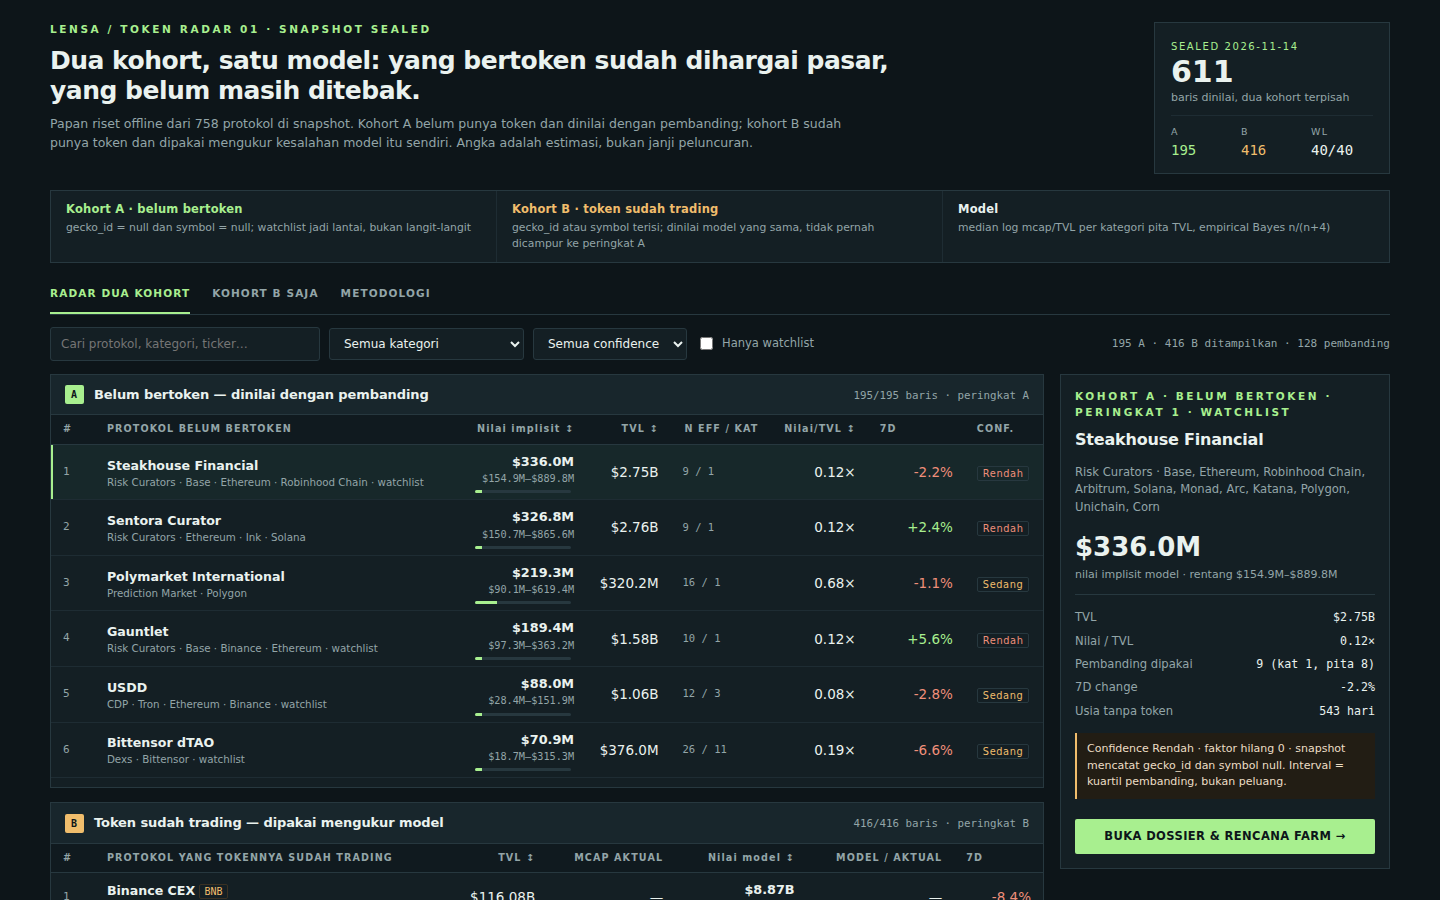
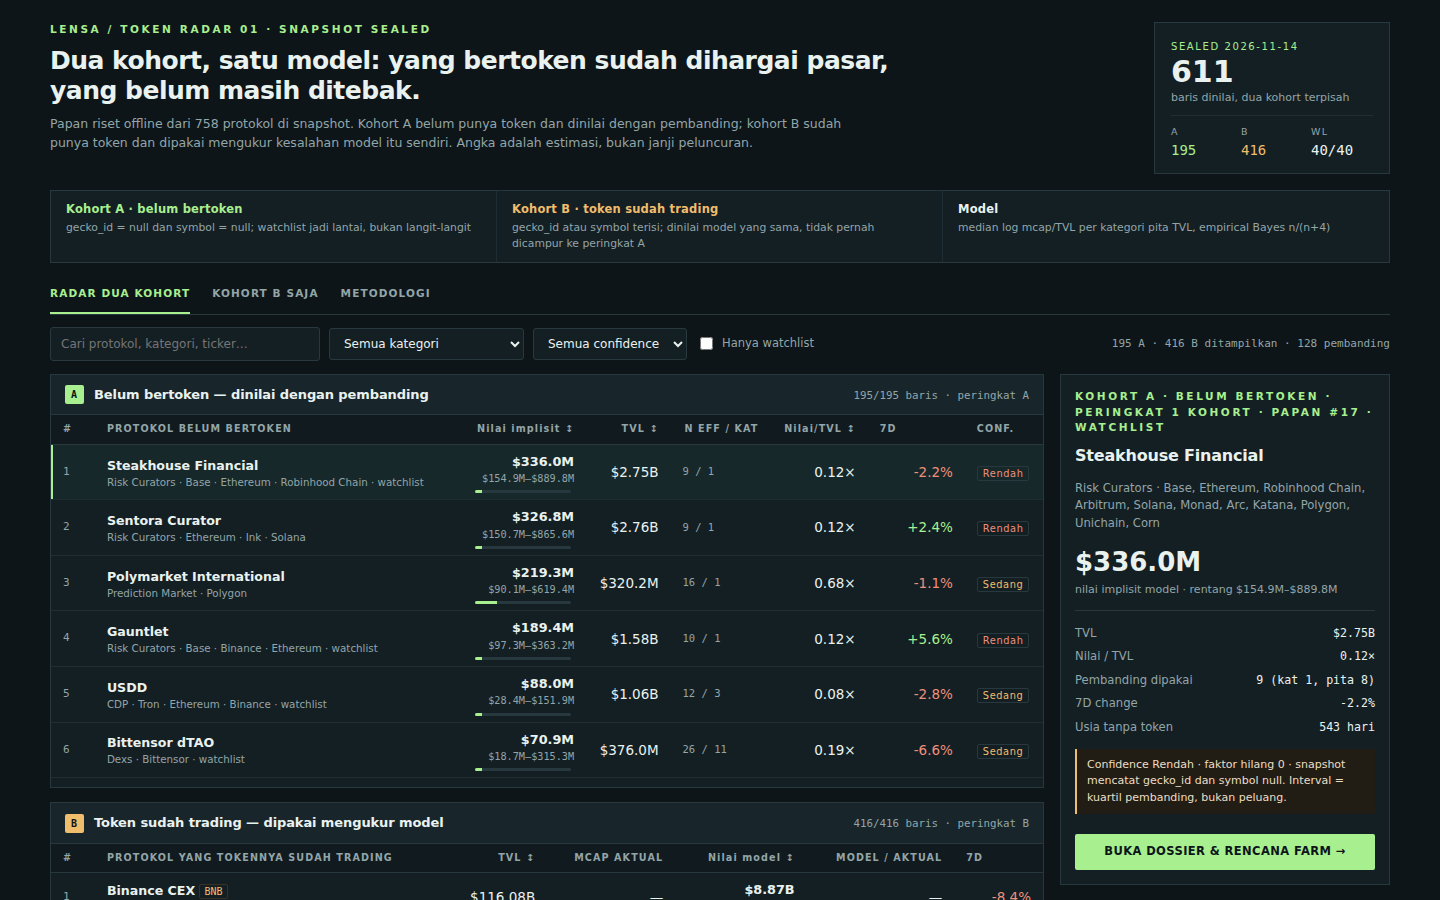
board: global dense rank 1..N (gate sorted_by_value), cohort_rank for the page; screenshots recaptured

Changed region(s): [[0.75, 0.4356, 0.9688, 0.9956]]

diff --git a/dashboard/app.js b/dashboard/app.js
@@ -62,8 +62,8 @@ function sortRows(rows) {
     value: (x, y) => y.implied_value_usd - x.implied_value_usd,
     tvl: (x, y) => y.tvl_usd - x.tvl_usd,
     ratio: (x, y) => ratioOf(y) - ratioOf(x),
-    rank: (x, y) => x.rank - y.rank,
-  }[sort] ?? ((x, y) => x.rank - y.rank);
+    rank: (x, y) => x.cohort_rank - y.cohort_rank,
+  }[sort] ?? ((x, y) => x.cohort_rank - y.cohort_rank);
   return [...rows].sort(cmp);
 }
 
@@ -80,7 +80,7 @@ function tableA(rows) {
     <th>7D</th><th>Conf.</th>
   </tr></thead><tbody>${rows.map((r) => `
   <tr data-slug="${r.slug}" class="${r.slug === selected && !detail ? 'selected' : ''}">
-    <td class="rank">${r.rank}</td>
+    <td class="rank">${r.cohort_rank}</td>
     <td class="proto"><button class="protocol" data-detail="${r.slug}">${r.name}</button>
       <small>${r.category ?? 'Uncategorized'} · ${r.chains.slice(0, 3).join(' · ') || 'chain tidak tercatat'}${r.watchlist ? ' · watchlist' : ''}</small></td>
     <td class="value num"><b>${money(r.implied_value_usd)}</b><small>${money(r.low_usd)}–${money(r.high_usd)}</small>
@@ -107,7 +107,7 @@ function tableB(rows) {
     const cls = g === null ? '' : g >= 1 ? 'gap-pos' : 'gap-neg';
     return `
   <tr data-slug="${r.slug}" class="${r.slug === selected && !detail ? 'selected' : ''}">
-    <td class="rank">${r.rank}</td>
+    <td class="rank">${r.cohort_rank}</td>
     <td class="proto"><button class="protocol" data-detail="${r.slug}">${r.name}</button>
       <span class="sym">${r.symbol ?? '—'}</span>
       <small>${r.category ?? 'Uncategorized'} · ${r.chains.slice(0, 2).join(' · ') || 'chain tidak tercatat'}</small></td>
@@ -140,7 +140,7 @@ function aside(r) {
   const trading = r.cohort === 'trading';
   const g = gapOf(r);
   return `<aside class="aside">
-    <p class="eyebrow">${trading ? 'Kohort B · sudah trading' : 'Kohort A · belum bertoken'} · peringkat ${r.rank} · ${r.watchlist ? 'watchlist' : 'radar'}</p>
+    <p class="eyebrow">${trading ? 'Kohort B · sudah trading' : 'Kohort A · belum bertoken'} · peringkat ${r.cohort_rank} kohort · papan #${r.rank} · ${r.watchlist ? 'watchlist' : 'radar'}</p>
     <h2>${r.name}</h2>
     <p class="muted">${r.category ?? 'Kategori tidak tercatat'} · ${r.chains.join(', ') || 'chain tidak tercatat'}</p>
     <div class="big">${money(r.implied_value_usd)}</div>

diff --git a/main.ts b/main.ts
@@ -57,7 +57,7 @@ if (slugs.size !== rows.length) fail('a slug appears twice on the board');
 for (const want of snapshot.watchlist) if (!slugs.has(want)) fail(`watchlist slug ${want} is missing from the board`);
 for (const cohort of [preToken, trading]) {
   cohort.forEach((r, i) => {
-    if (r.rank !== i + 1) fail(`ranks are not dense in ${r.cohort}: ${r.slug} is ${r.rank} at ${i + 1}`);
+    if (r.cohort_rank !== i + 1) fail(`cohort ranks are not dense in ${r.cohort}: ${r.slug} is ${r.cohort_rank} at ${i + 1}`);
     if (!Number.isSafeInteger(r.implied_value_usd) || r.implied_value_usd < 1 || r.implied_value_usd > 1e14) fail(`implied value out of range: ${r.slug}`);
     if (i > 0 && cohort[i - 1]!.implied_value_usd < r.implied_value_usd) fail(`values are not monotone in ${r.cohort} at ${r.slug}`);
     if (r.farm_steps.length < 5 || r.farm_steps.length > 7) fail(`farm plan length ${r.farm_steps.length} for ${r.slug}`);
@@ -68,6 +68,14 @@ for (const cohort of [preToken, trading]) {
   });
 }
 if (new Set(preToken.map((r) => r.implied_value_usd)).size < 2) fail('the pre-token cohort ranks nothing by value');
+
+// The gate's sorted_by_value: the whole board's ranks are exactly 1..N once each, and the value
+// never rises as the rank ascends.
+{
+  const byRank = [...rows].sort((a, b) => a.rank - b.rank);
+  if (byRank.some((r, i) => r.rank !== i + 1)) fail('the board ranks are not 1..N once each over all rows');
+  for (let i = 1; i < byRank.length; i++) if (byRank[i - 1]!.implied_value_usd < byRank[i]!.implied_value_usd) fail(`values rise as rank ascends at ${byRank[i]!.slug}`);
+}
 
 const out = resolve(arg('output', process.env.MAKEFUN_OUTPUT_DIR ?? '/output'));
 if (out === resolve(here) || out === resolve(here, 'dashboard') || out === resolve(here, 'screenshots')) fail('output must not overwrite the source');
